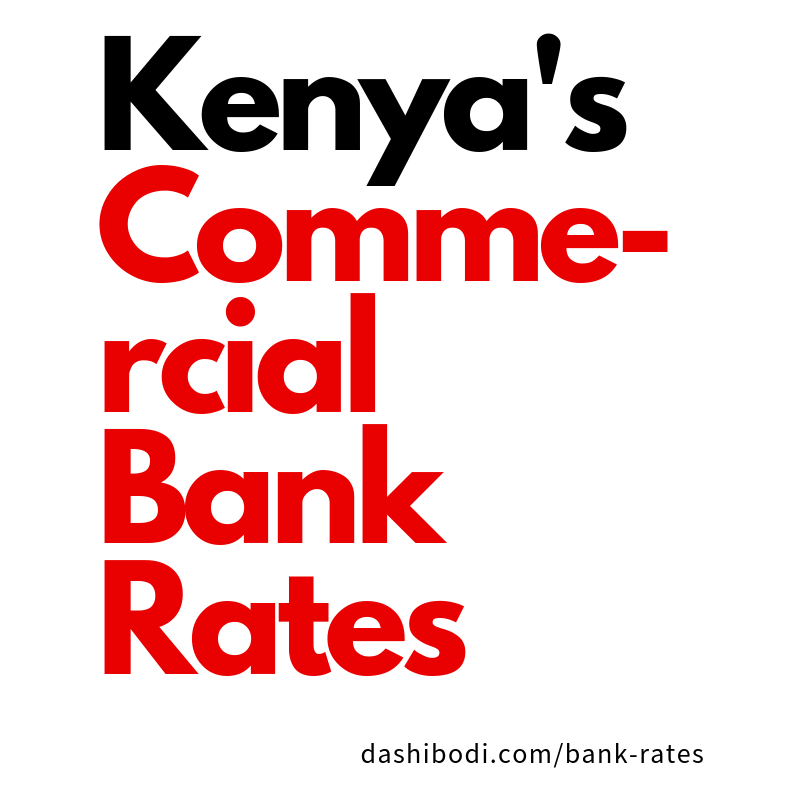
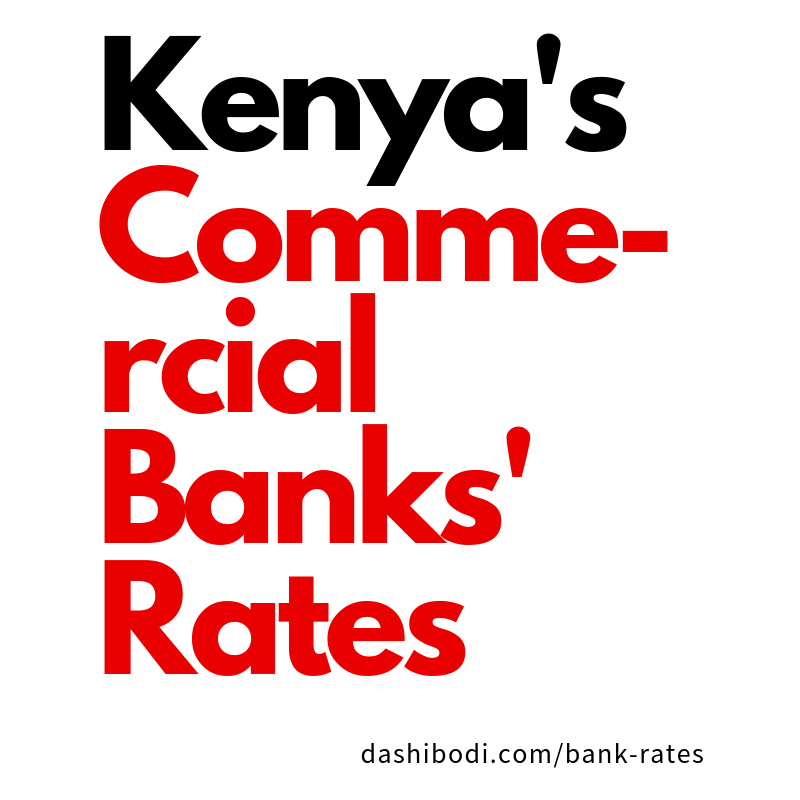
modify bank rates chart image, description, and title

Changed region(s): [[0.5312, 0.5312, 0.6875, 0.6875]]

diff --git a/_charts/2019-04-09-bank-rates.md b/_charts/2019-04-09-bank-rates.md
@@ -3,8 +3,8 @@ layout: chart
 author: Paul
 unit: (%)
 categories: [economy]
-description: "Kenya's commercial banks weighted average rates from November 2008 to November 2018."
-title: "Commercial Bank Rates"
+description: "Kenya's commercial banks' weighted average rates from November 2008 to November 2018."
+title: "Commercial Banks' Rates"
 excerpt_separator: <!--more-->
 series-a: Lending
 series-b: Deposit
